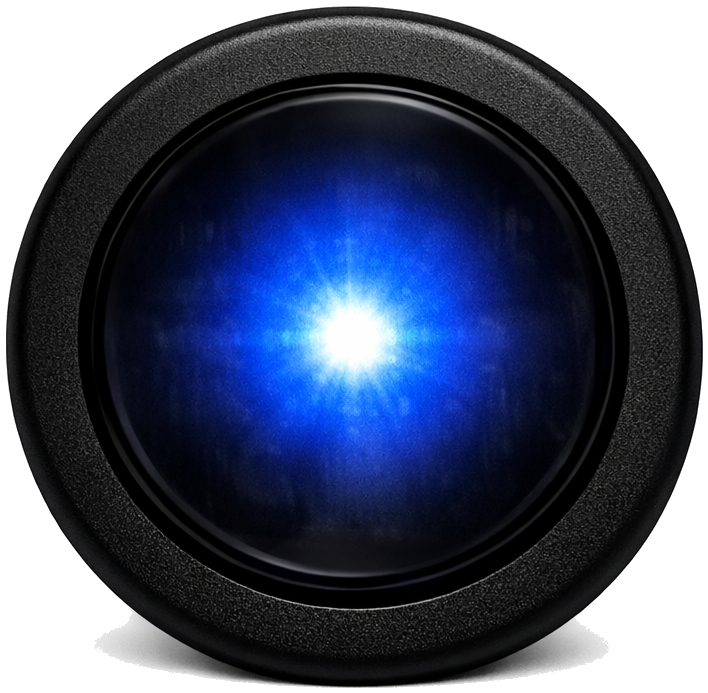
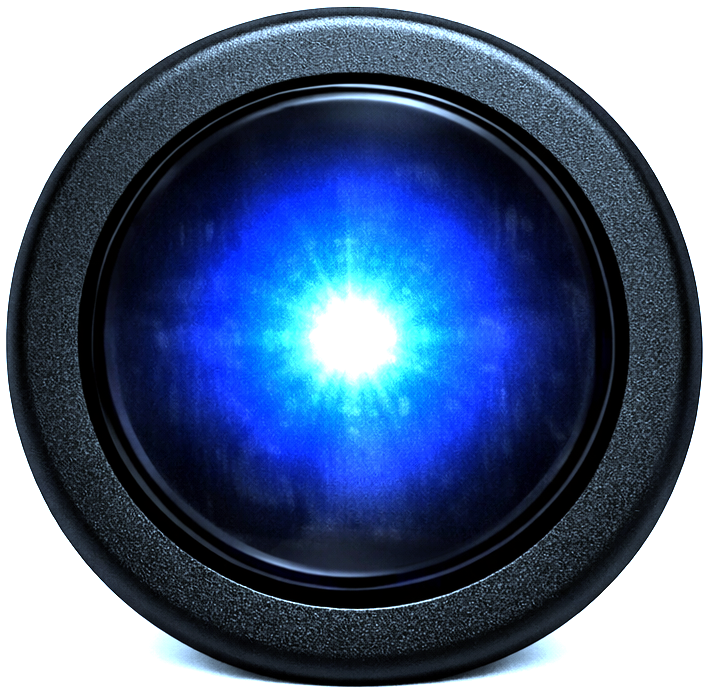
Round perimeter heads: brighten blue glow (~1.5x) so it reads at small on-vehicle sizes; regenerate R/B splits with the brighter blue. Add Blue/White support for -RBW rounds: derive white-glow dome sprites and build B/W split sprites (fx_round_bw / fx_round_smk_bw). 416309-RBW now allowWhite:true; r

diff --git a/client/src/components/LightFixture.tsx b/client/src/components/LightFixture.tsx
@@ -93,15 +93,22 @@ function spriteFor(sku: SkuType, c1: LightColorId, c2: LightColorId): string | n
       return `${BASE}fx/${pfx}_rb.png`;
     }
     case "round": {
-      // Tri-color R/B/W perimeter round: in warning mode it flashes red AND blue,
-      // so the default (c1 != c2) node renders a red/blue split dome sprite
-      // (mirrors the DynaFlare stick). Forcing the node to a single solid color
-      // (c1 == c2), or an amber head, falls back to that color's solid sprite.
+      // Tri-color R/B/W perimeter round: in warning mode it flashes two colors,
+      // so a two-color node (c1 != c2) renders a split dome sprite (mirrors the
+      // DynaFlare stick). OK depts run Red/Blue; AR depts run Blue/White. Forcing
+      // the node to a single solid color (c1 == c2), or an amber head, falls back
+      // to that color's solid sprite.
       const amber = c1 === "amber" || c2 === "amber";
       const smk = sku.smokedLens ? "fx_round_smk" : "fx_round";
       if (amber) return `${BASE}fx/fx_round_a.png`;
-      if (sku.allowTriColor && c1 !== c2) return `${BASE}fx/${smk}_rb.png`;
-      const c = c1 === "blue" ? "b" : "r";
+      if (sku.allowTriColor && c1 !== c2) {
+        const hasW = c1 === "white" || c2 === "white";
+        const hasR = c1 === "red" || c2 === "red";
+        // Blue/White split (no red) -> _bw; otherwise the Red/Blue split -> _rb.
+        const pair = hasW && !hasR ? "bw" : "rb";
+        return `${BASE}fx/${smk}_${pair}.png`;
+      }
+      const c = c1 === "blue" ? "b" : c1 === "white" ? "w" : "r";
       return `${BASE}fx/${smk}_${c}.png`;
     }
     default:

diff --git a/client/src/lib/catalog.ts b/client/src/lib/catalog.ts
@@ -548,7 +548,7 @@ export const SKU_TYPES: SkuType[] = [
     lengthPx: 18,
     defaultC1: "red",
     defaultC2: "blue",
-    allowWhite: false,
+    allowWhite: true, // -RBW head: Red/Blue/White capable (AR depts run Blue/White)
     allowTriColor: true,
     smokedLens: true,
     defaults: {
